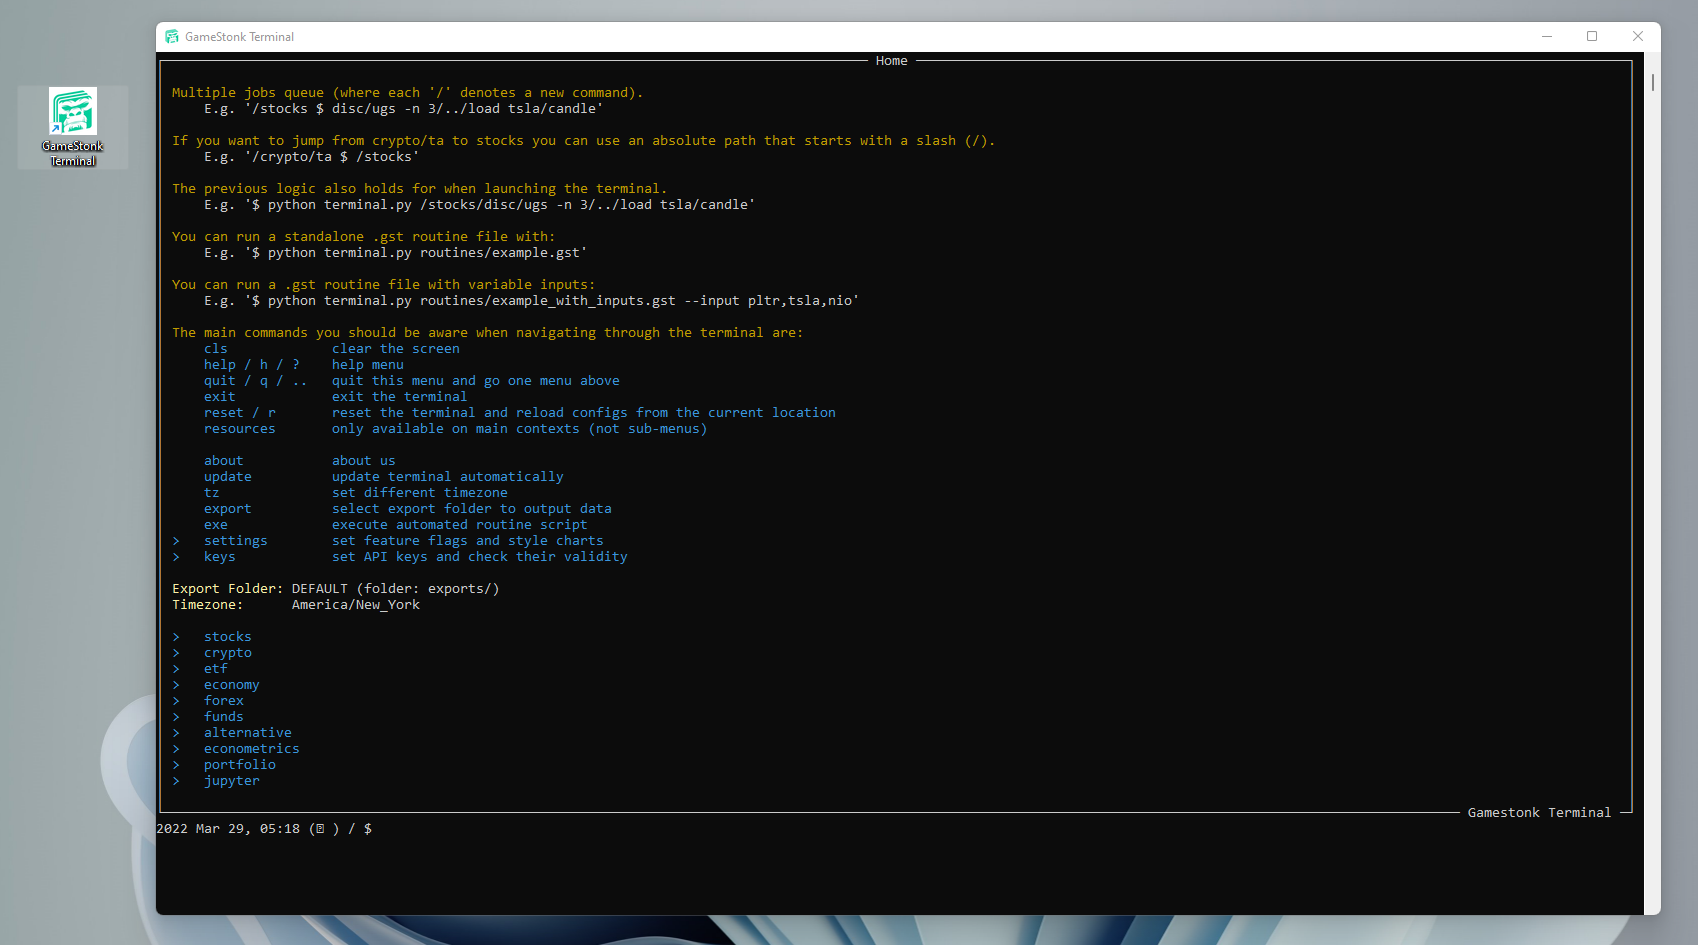
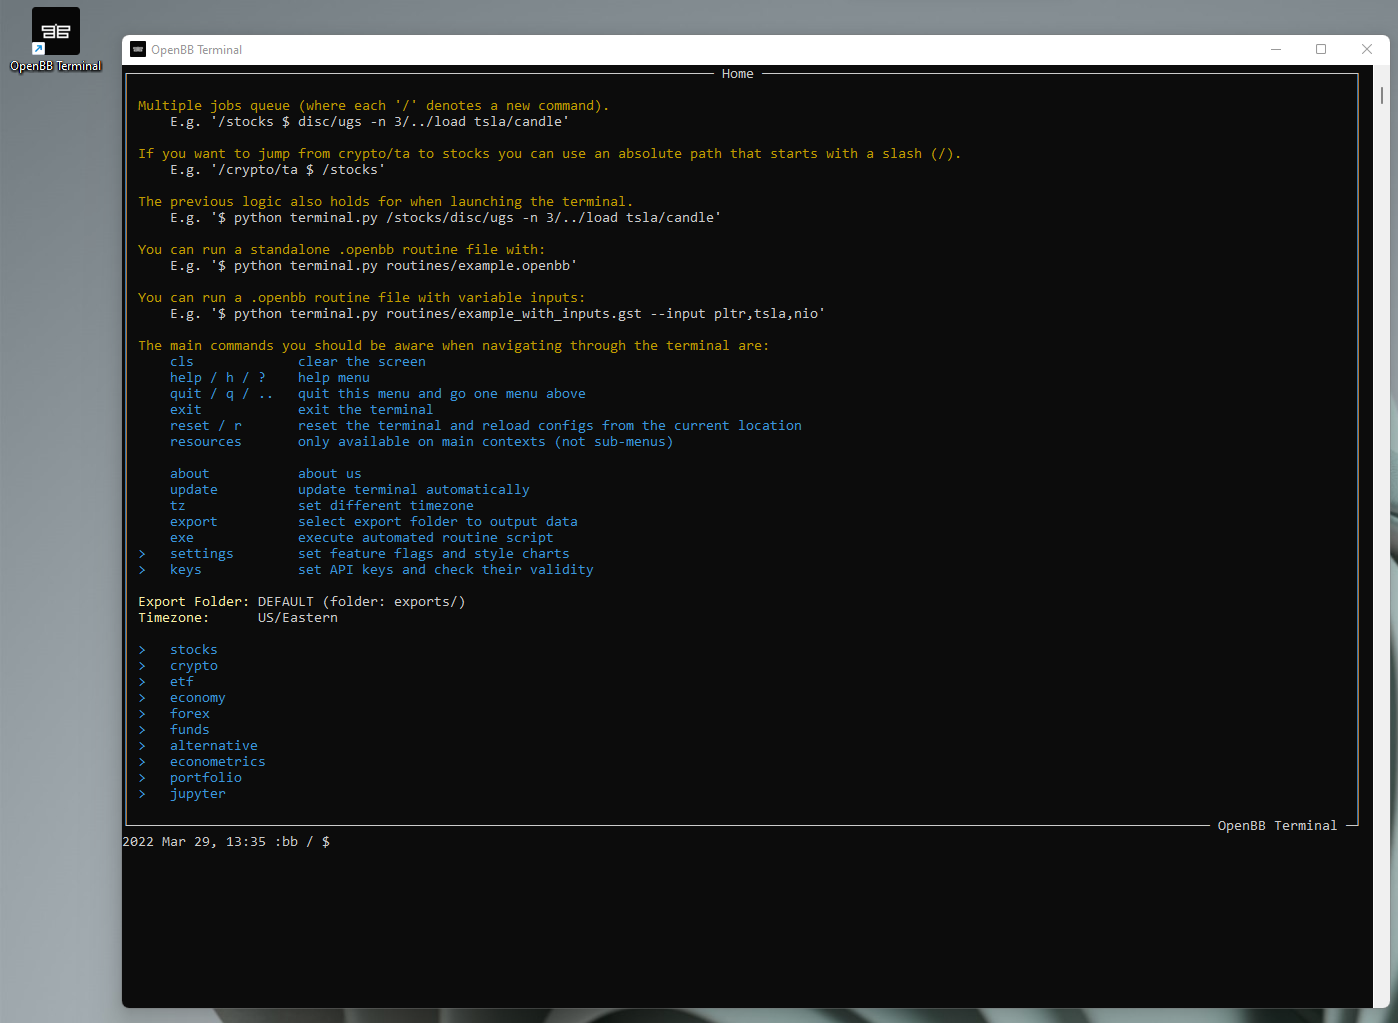
Redo images and update the README (#1591)
* Redo images and update the README

* Last fixes

Changed region(s): [[0.0, 0.0, 1.0, 1.0], [0.8612, 0.8593, 0.892, 0.8899]]

diff --git a/openbb_terminal/README.md b/openbb_terminal/README.md
@@ -34,9 +34,11 @@ process and explain to you what each message means.
 
 ### Windows
 
-The process starts off by downloading the installer, see below for the most recent release:
+The process starts off by downloading the installer, see below for how to download the most recent release:
 
-- [Link to Windows installer](https://github.com/OpenBB-finance/OpenBBTerminal/releases/tag/v1.0.0)
+- Go to [the following link](https://github.com/OpenBB-finance/OpenBBTerminal/releases)
+- Click on the most recent release
+- Click on the ".exe" file:
 
 Then follow these steps:
 
@@ -48,9 +50,11 @@ Then follow these steps:
 
 ### macOS
 
-The process starts off by downloading the installer, see below for the most recent release:
+The process starts off by downloading the installer, see below for how to download the most recent release:
 
-- [Link to macOS installer](https://github.com/OpenBB-finance/OpenBBTerminal/releases/tag/v1.0.0)
+- Go to [the following link](https://github.com/OpenBB-finance/OpenBBTerminal/releases)
+- Click on the most recent release
+- Click on the ".dmg" file:
 
 Installation instructions:
 
@@ -65,7 +69,7 @@ files from the .dmg file.
 |:-------------------------------------------------------------------------------------------------------------------------------------------------------------------------------------------------------------------------------------------------------------------------------------------------------------------------------------------------------------------------------------------------------------------------------------------------------------------------------------------------------------------------------------------------------------------------------------------------------------------------------------------------------------------------------------------------------|:----------------------------------------------------------------------------------------------------------------------------------|
 | <div style="width:300px">It is possible you will see the image displayed on the right. This is because the installer is still in beta phase, and the team has not yet requested verification from Apple. Please see below how to correct for this.</div>                                                                                                                                                                                                                                                                                                                                                                                                                                               | <p align="center"><img src="../images/installation/macos/malicious_software_warning.png" alt="software warning" width="500"/></p> |
 | <div style="width:300px">**Option 1 (via MacOS settings):** <br><br> 1) Run the file. You will most likely receive a message that macOS was not able to check whether the application contains malicious software. The reasoning for this is described above. <br> 2) Go to System Preferences > Security & Privacy > General. You should see a message at the bottom that says that the file "was blocked from use because it is not from an identified developer". Click on “Allow anyway” or "Open anyway".<br> 3) If you receive the above message multiple times on different files, keep allowing the files via Step 2 or use Option 2.<br> 4) You should now be able to launch the application. | <p align="center"><img src="../images/installation/macos/option_one_warning_fix.png" alt="option 1 warning fix" width="500"/></p> |
- | <div style="width:300px">**Option 2 (via Terminal):** <br><br> 1) Run the file. You will most likely receive a message that macOS was not able to check whether the application contains malicious software. The reasoning for this is described in the note above. <br> 2) Open the "Terminal" application. This can be done by using Command (⌘) + Space and typing "terminal". <br> 3) Within this "Terminal" application, assuming you moved the file to the Applications folder, enter the following command: `xattr -r -d com.apple.quarantine "/Applications/Gamestonk Terminal"`<br> 4) You should now be able to launch the application.                                                      | <p align="center"><img src="../images/installation/macos/option_two_warning_fix.png" alt="option 2 warning fix" width="500"/></p> |
+ | <div style="width:300px">**Option 2 (via Terminal):** <br><br> 1) Run the file. You will most likely receive a message that macOS was not able to check whether the application contains malicious software. The reasoning for this is described in the note above. <br> 2) Open the "Terminal" application. This can be done by using Command (⌘) + Space and typing "terminal". <br> 3) Within this "Terminal" application, assuming you moved the file to the Applications folder, enter the following command: `xattr -r -d com.apple.quarantine "/Applications/OpenBB Terminal"`<br> 4) You should now be able to launch the application.                                                         | <p align="center"><img src="../images/installation/macos/option_two_warning_fix.png" alt="option 2 warning fix" width="500"/></p> |
 
 ## Developer
 
